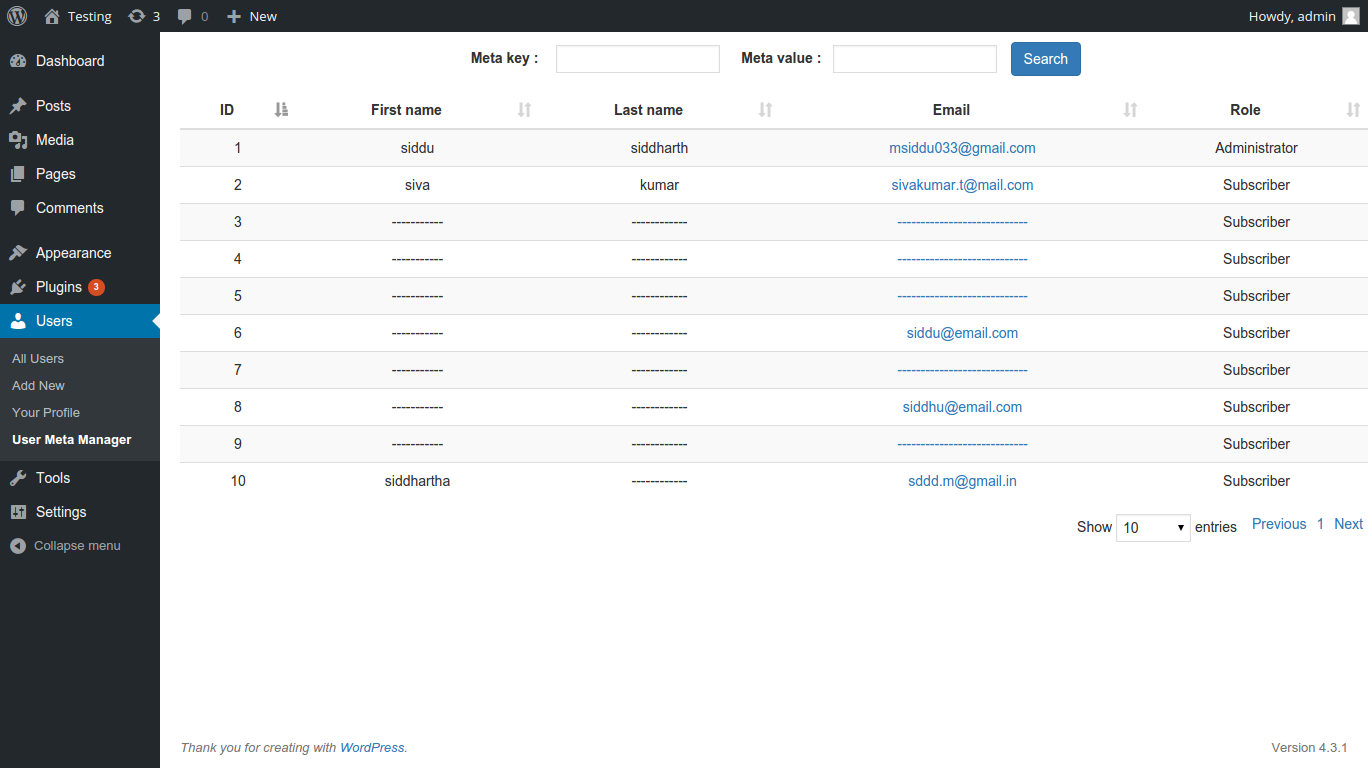
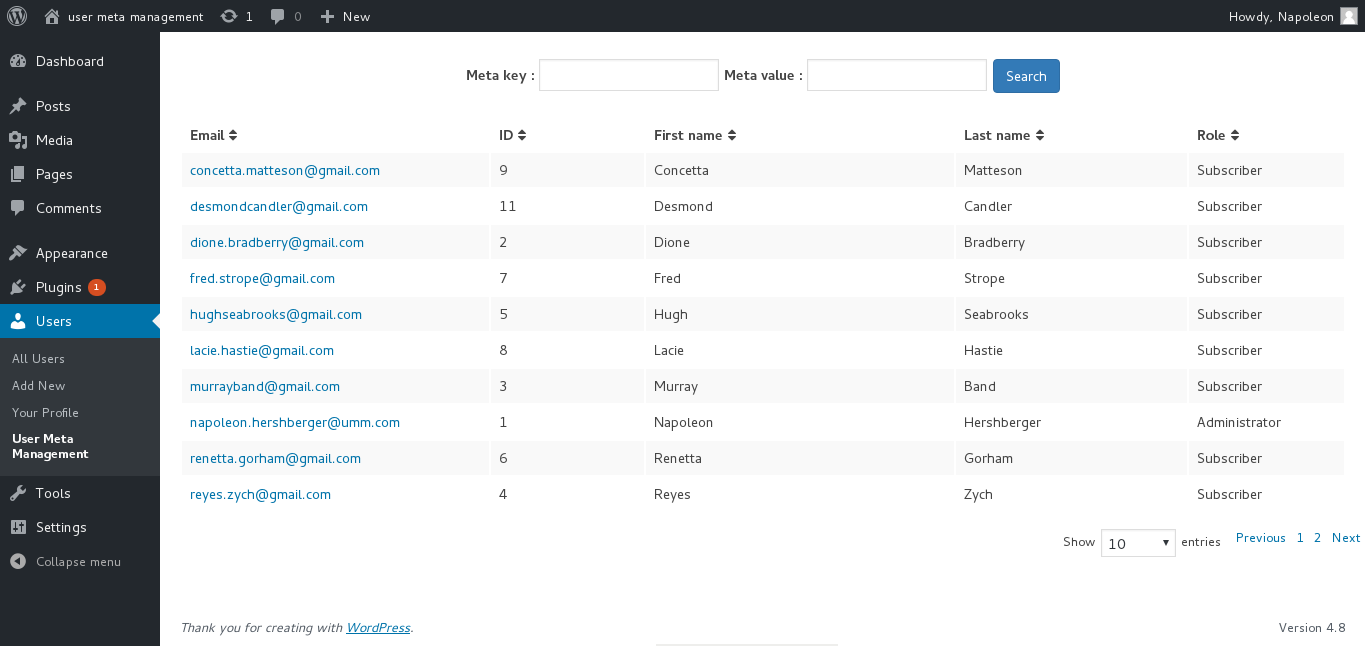
Updated read me file Added new screenshots

diff --git a/README.md b/README.md
@@ -2,15 +2,15 @@
 
 Contributors: Siddhartha-Osmosys
 
-Tags: user, meta, manager
+Tags: user, meta, management
 
 Requires at least: 4.0
 
-Tested up to: 4.3.1
+Tested up to: 4.8
 
-Stable tag: 4.3
+Stable tag: 0.0.1
 
-License: GPLv2 or later
+License: MIT License
 
 License URI: http://osmosyssoftware.github.io/user-meta-manager/
 
@@ -29,7 +29,7 @@ License URI: http://osmosyssoftware.github.io/user-meta-manager/
 
 ## Installation 
 
-1. Upload `user-meta-manager` to the `/wp-content/plugins/` directory.
+1. Upload `user-meta-management` to the `/wp-content/plugins/` directory.
 2. Activate the plugin through the 'Plugins' menu in WordPress.
 
 
